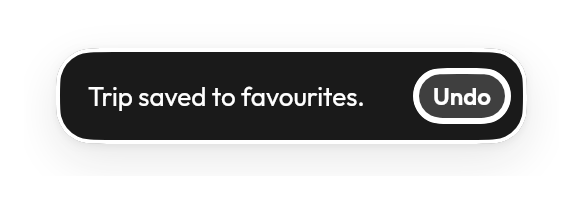
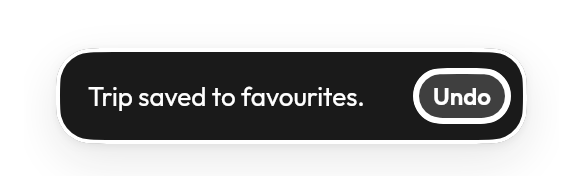
Toast: closer to the window's edge and to the nav bar
Reported: the clearance between a toast and the top or bottom of the
page, or above the nav bar, was a bit too large.

A toast now stands 8dp off the window's top or foot, inside its insets,
and 8dp above a navigation bar. It was the 16dp ring each card is drawn
in for its shadow, and above a bar sm more. The ring stays; the stack is
moved toward its edge so that the ring reaches past it.

Canaries in ToastNavBarTest, on the old code: a bottom toast stood 16dp
off the window's foot, and 28dp above a docked bar.

Goldens: toast (light, dark, high-contrast light), inspected.

Claude-Session: https://claude.ai/code/session_01QvkBY8Fm88LBytx9NoWxQH

Changed region(s): [[0.0926, 0.2812, 0.8954, 0.75], [0.1235, 0.4062, 0.6484, 0.5625], [0.0926, 0.25, 0.8645, 0.4062]]

diff --git a/ui/src/commonMain/kotlin/io/kontour/ui/overlay/Toast.kt b/ui/src/commonMain/kotlin/io/kontour/ui/overlay/Toast.kt
@@ -36,6 +36,7 @@ import androidx.compose.foundation.layout.WindowInsets
 import androidx.compose.foundation.layout.defaultMinSize
 import androidx.compose.foundation.layout.fillMaxSize
 import androidx.compose.foundation.layout.heightIn
+import androidx.compose.foundation.layout.offset
 import androidx.compose.foundation.layout.padding
 import androidx.compose.foundation.layout.size
 import androidx.compose.foundation.layout.width
@@ -71,6 +72,7 @@ import androidx.compose.ui.semantics.LiveRegionMode
 import androidx.compose.ui.semantics.liveRegion
 import androidx.compose.ui.semantics.semantics
 import androidx.compose.ui.unit.Dp
+import androidx.compose.ui.unit.IntOffset
 import androidx.compose.ui.unit.IntSize
 import androidx.compose.ui.unit.dp
 import io.kontour.ui.a11y.highContrast
@@ -740,9 +742,11 @@ fun ToastHost(
  * From the bars that report themselves to the host ([clearedByToasts]), and
  * only those near the foot — within [BarReach] of it, which takes a floating
  * bar over the gesture bar and leaves out one drawn mid-page. The stack then
- * stands [ToastDefaults]' own margin's worth above the bar's top: as an inset,
- * taken with the window's own as the larger of the two, so a keyboard up over
- * the bar still lifts it further, and the two are never added.
+ * stands on the bar's top as it would on the window's foot, the same
+ * [ToastEdgeGap] off it: as an inset, taken with the window's own as the larger
+ * of the two, so a keyboard up over the bar still lifts it further, and the
+ * two are never added. It stood `sm` above the bar *and* the card's own ring
+ * above that, 28dp of page between a toast and the bar it was raised over.
  *
  * Moves when a bar comes or goes — a page covering the bar takes it away at
  * the end of its slide — rather than jumping, and is where it should be from
@@ -761,14 +765,13 @@ private class BarLift {
 private fun rememberBarLift(position: ToastPosition, host: OverlayHostState, density: Density): BarLift {
     val lift = remember { BarLift() }
     val reach = with(density) { BarReach.toPx() }
-    val margin = with(density) { Theme.spacing.sm.toPx() }
     val root = lift.rootHeight
     val target = if (position != ToastPosition.Bottom || root <= 0f) {
         0f
     } else {
         host.bottomBars.values
             .filter { root - it.bottom <= reach }
-            .maxOfOrNull { root - it.top + margin }
+            .maxOfOrNull { root - it.top }
             ?: 0f
     }
     val spec = Theme.motion.springOrTween<Float>()
@@ -787,6 +790,29 @@ private fun rememberBarLift(position: ToastPosition, host: OverlayHostState, den
 
 /** How near the foot of the window a bar has to end to count as along it. */
 private val BarReach = 96.dp
+
+/**
+ * How far a toast stands off the edge it is shown at — the window's top or
+ * foot inside its insets, or the top of a navigation bar along the foot.
+ *
+ * Less than the ring round each card, which is `md` because the card's shadow
+ * is drawn in it and a swiped card's fade is clipped to it: the stack is moved
+ * toward its edge by the difference, so the ring reaches past the edge rather
+ * than holding the card off it. With the ring as the gap, a toast stood 16dp
+ * off the window and 28dp above a bar — *"the clearance between the toast and
+ * the top/bottom of the page (or the clearance above the nav bar) is a bit too
+ * large"*. Eight: clear of the edge without a band of page under it.
+ */
+private val ToastEdgeGap: Dp
+    @Composable @ReadOnlyComposable get() = Theme.spacing.xs
+
+/**
+ * The stack moved toward its edge by [shift]: the part of each card's ring that
+ * is more than [ToastEdgeGap]. A placement, fixed for a given theme; nothing
+ * about it moves.
+ */
+private fun Modifier.standingOffItsEdge(towardEdge: Boolean, shift: Dp): Modifier =
+    offset { IntOffset(0, (if (towardEdge) 1 else -1) * shift.roundToPx()) }
 
 /**
  * Whether a drag is aimed back into the screen, which is the one that returns.
@@ -876,6 +902,7 @@ private fun ToastStack(state: ToastHostState, config: ToastHostConfig) {
     // The stack grows away from the edge it is anchored to: a bottom-anchored
     // stack recedes upward, a top-anchored one downward.
     val towardEdge = config.position.towardEdge
+    val edgeShift = Theme.spacing.md - ToastEdgeGap
     val visible = state.toasts.takeLast(config.maxVisible)
     val density = LocalDensity.current
     val barLift = rememberBarLift(config.position, LocalOverlayHost.current, density)
@@ -1104,7 +1131,8 @@ private fun ToastStack(state: ToastHostState, config: ToastHostConfig) {
         Modifier
             .fillMaxSize()
             .onPlaced { barLift.rootHeight = it.findRootCoordinates().size.height.toFloat() }
-            .overlappingInsetsPadding(config.windowInsets.union(WindowInsets(bottom = barLift.value.roundToInt()))),
+            .overlappingInsetsPadding(config.windowInsets.union(WindowInsets(bottom = barLift.value.roundToInt())))
+            .standingOffItsEdge(towardEdge, edgeShift),
         contentAlignment = config.position.alignmentFor(config.alignment),
     ) {
         visible.forEachIndexed { index, toast ->

diff --git a/ui/src/commonTest/kotlin/io/kontour/ui/overlay/ToastNavBarTest.kt b/ui/src/commonTest/kotlin/io/kontour/ui/overlay/ToastNavBarTest.kt
@@ -9,6 +9,10 @@ import androidx.compose.runtime.getValue
 import androidx.compose.runtime.mutableStateOf
 import androidx.compose.runtime.setValue
 import androidx.compose.ui.Modifier
+import androidx.compose.ui.geometry.Rect
+import androidx.compose.ui.layout.onPlaced
+import androidx.compose.ui.semantics.SemanticsProperties
+import androidx.compose.ui.test.SemanticsMatcher
 import androidx.compose.ui.platform.testTag
 import androidx.compose.ui.test.ComposeUiTest
 import androidx.compose.ui.test.ExperimentalTestApi
@@ -80,6 +84,55 @@ class ToastNavBarTest {
         mainClock.autoAdvance = false
         val bottom = toastBottom()
         assertTrue(bottom <= barTop(), "the toast's foot at ${bottom}px is over the docked bar, whose top is at ${barTop()}px")
+    }
+
+    /** The card itself: the node that announces the toast, not its words. */
+    private fun ComposeUiTest.card(): Rect {
+        toasts.show("Saved to favourites")
+        mainClock.advanceTimeBy(600)
+        waitForIdle()
+        return onAllNodes(SemanticsMatcher.keyIsDefined(SemanticsProperties.LiveRegion)).fetchSemanticsNodes().first().boundsInRoot
+    }
+
+    /**
+     * Close above the bar: 8dp of page between them, as off the window's own
+     * edge. It was 28 — `sm` above the bar and the card's own 16dp ring above
+     * that — reported as *"the clearance above the nav bar is a bit too
+     * large"*.
+     */
+    @Test
+    fun aToastStandsCloseAboveTheBar() = runComposeUiTest {
+        // Docked, so the bar's bounds are its surface: a floating bar's are the
+        // capsule and the margin round it.
+        page(style = NavBarStyle.Docked)
+        mainClock.autoAdvance = false
+        val gap = with(density) { (barTop() - card().bottom).toDp() }
+        assertTrue(gap in 6.dp..10.dp, "the toast stands $gap above the bar")
+    }
+
+    /** And close to the window's foot, with no bar, and its top, shown there. */
+    @Test
+    fun aToastStandsCloseToTheWindowsEdge() = runComposeUiTest {
+        var position by mutableStateOf(ToastPosition.Bottom)
+        var height = 0f
+        setContent {
+            KontourTheme(reduceMotion = true) {
+                OverlayHost(Modifier.fillMaxSize().onPlaced { height = it.size.height.toFloat() }) {
+                    ToastHost(toasts, position = position)
+                }
+            }
+        }
+        waitForIdle()
+        mainClock.autoAdvance = false
+        val foot = with(density) { (height - card().bottom).toDp() }
+        assertTrue(foot in 6.dp..10.dp, "a bottom toast stands $foot off the window's foot")
+
+        toasts.clear()
+        runOnUiThread { position = ToastPosition.Top }
+        mainClock.advanceTimeBy(800)
+        waitForIdle()
+        val head = with(density) { card().top.toDp() }
+        assertTrue(head in 6.dp..10.dp, "a top toast stands $head off the window's top")
     }
 
     @Test

diff --git a/ui-docs/content/components/toast.md b/ui-docs/content/components/toast.md
@@ -134,6 +134,12 @@ top — or above the keyboard and the gesture bar, whichever is higher; the two 
 never added. A page that covers the bar, or a bar that goes, brings the stack back
 down, moving rather than jumping. A bar drawn partway down a page does not count.
 
+**8dp off its edge.** A toast stands 8dp off the window's top or foot, inside its
+insets, and 8dp above a navigation bar. It was the 16dp ring each card is drawn
+in — the room its shadow takes — and above a bar `sm` more, 28dp of page between
+a toast and the bar, reported as *"a bit too large"*. The ring is still there;
+the stack is moved toward its edge so that the ring reaches past it.
+
 ---
 
 ## Accessibility

diff --git a/ui-docs/content/changelog.md b/ui-docs/content/changelog.md
@@ -122,6 +122,11 @@ no icons has arrows either side of its month.
   they had no buttons either side of the month, and paged only by a swipe —
   *"there's no left/right buttons"*, of one in a dialog. `previousIcon = null`
   and `nextIcon = null` leave them out.
+- **A [toast](components/toast.md) stands 8dp off its edge**, the window's top
+  or foot inside its insets, and 8dp above a navigation bar, where it stood 16dp
+  off the window and 28dp above the bar: *"the clearance between the toast and
+  the top/bottom of the page (or the clearance above the nav bar) is a bit too
+  large"*.
 
 ### Added
 
